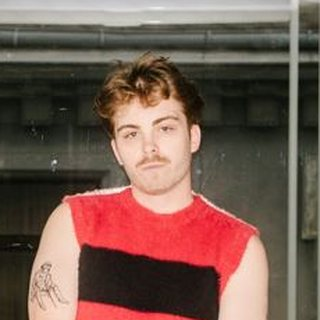
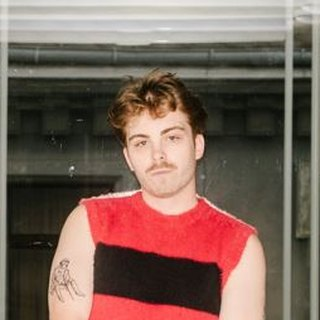
Team photos: recrop so faces are centred in the circles
Claude-Session: https://claude.ai/code/session_01HrbzVenYbQaGSMLbazzBKo

diff --git a/index.html b/index.html
@@ -865,9 +865,9 @@
       <section class="about" id="o-nas" aria-labelledby="h-onas">
         <p class="hand about-note" data-en="and yes, we really are Gen Z">a jo, fakt jsme Gen Z</p>
         <ul class="team" aria-label="Náš tým">
-            <li><img src="/img/team-3.jpg" alt="" width="320" height="320" loading="lazy"></li>
-            <li><img src="/img/team-2.jpg" alt="" width="320" height="320" loading="lazy"></li>
-            <li><img src="/img/team-1.jpg" alt="" width="320" height="320" loading="lazy"></li>
+            <li><img src="/img/team-3.jpg?v=2" alt="" width="320" height="320" loading="lazy"></li>
+            <li><img src="/img/team-2.jpg?v=2" alt="" width="320" height="320" loading="lazy"></li>
+            <li><img src="/img/team-1.jpg?v=2" alt="" width="320" height="320" loading="lazy"></li>
           </ul>
         <div class="about-text">
           <h2 id="h-onas" data-en="we are 3 lazy kiddos.">jsme 3 lazy kiddos.</h2>
